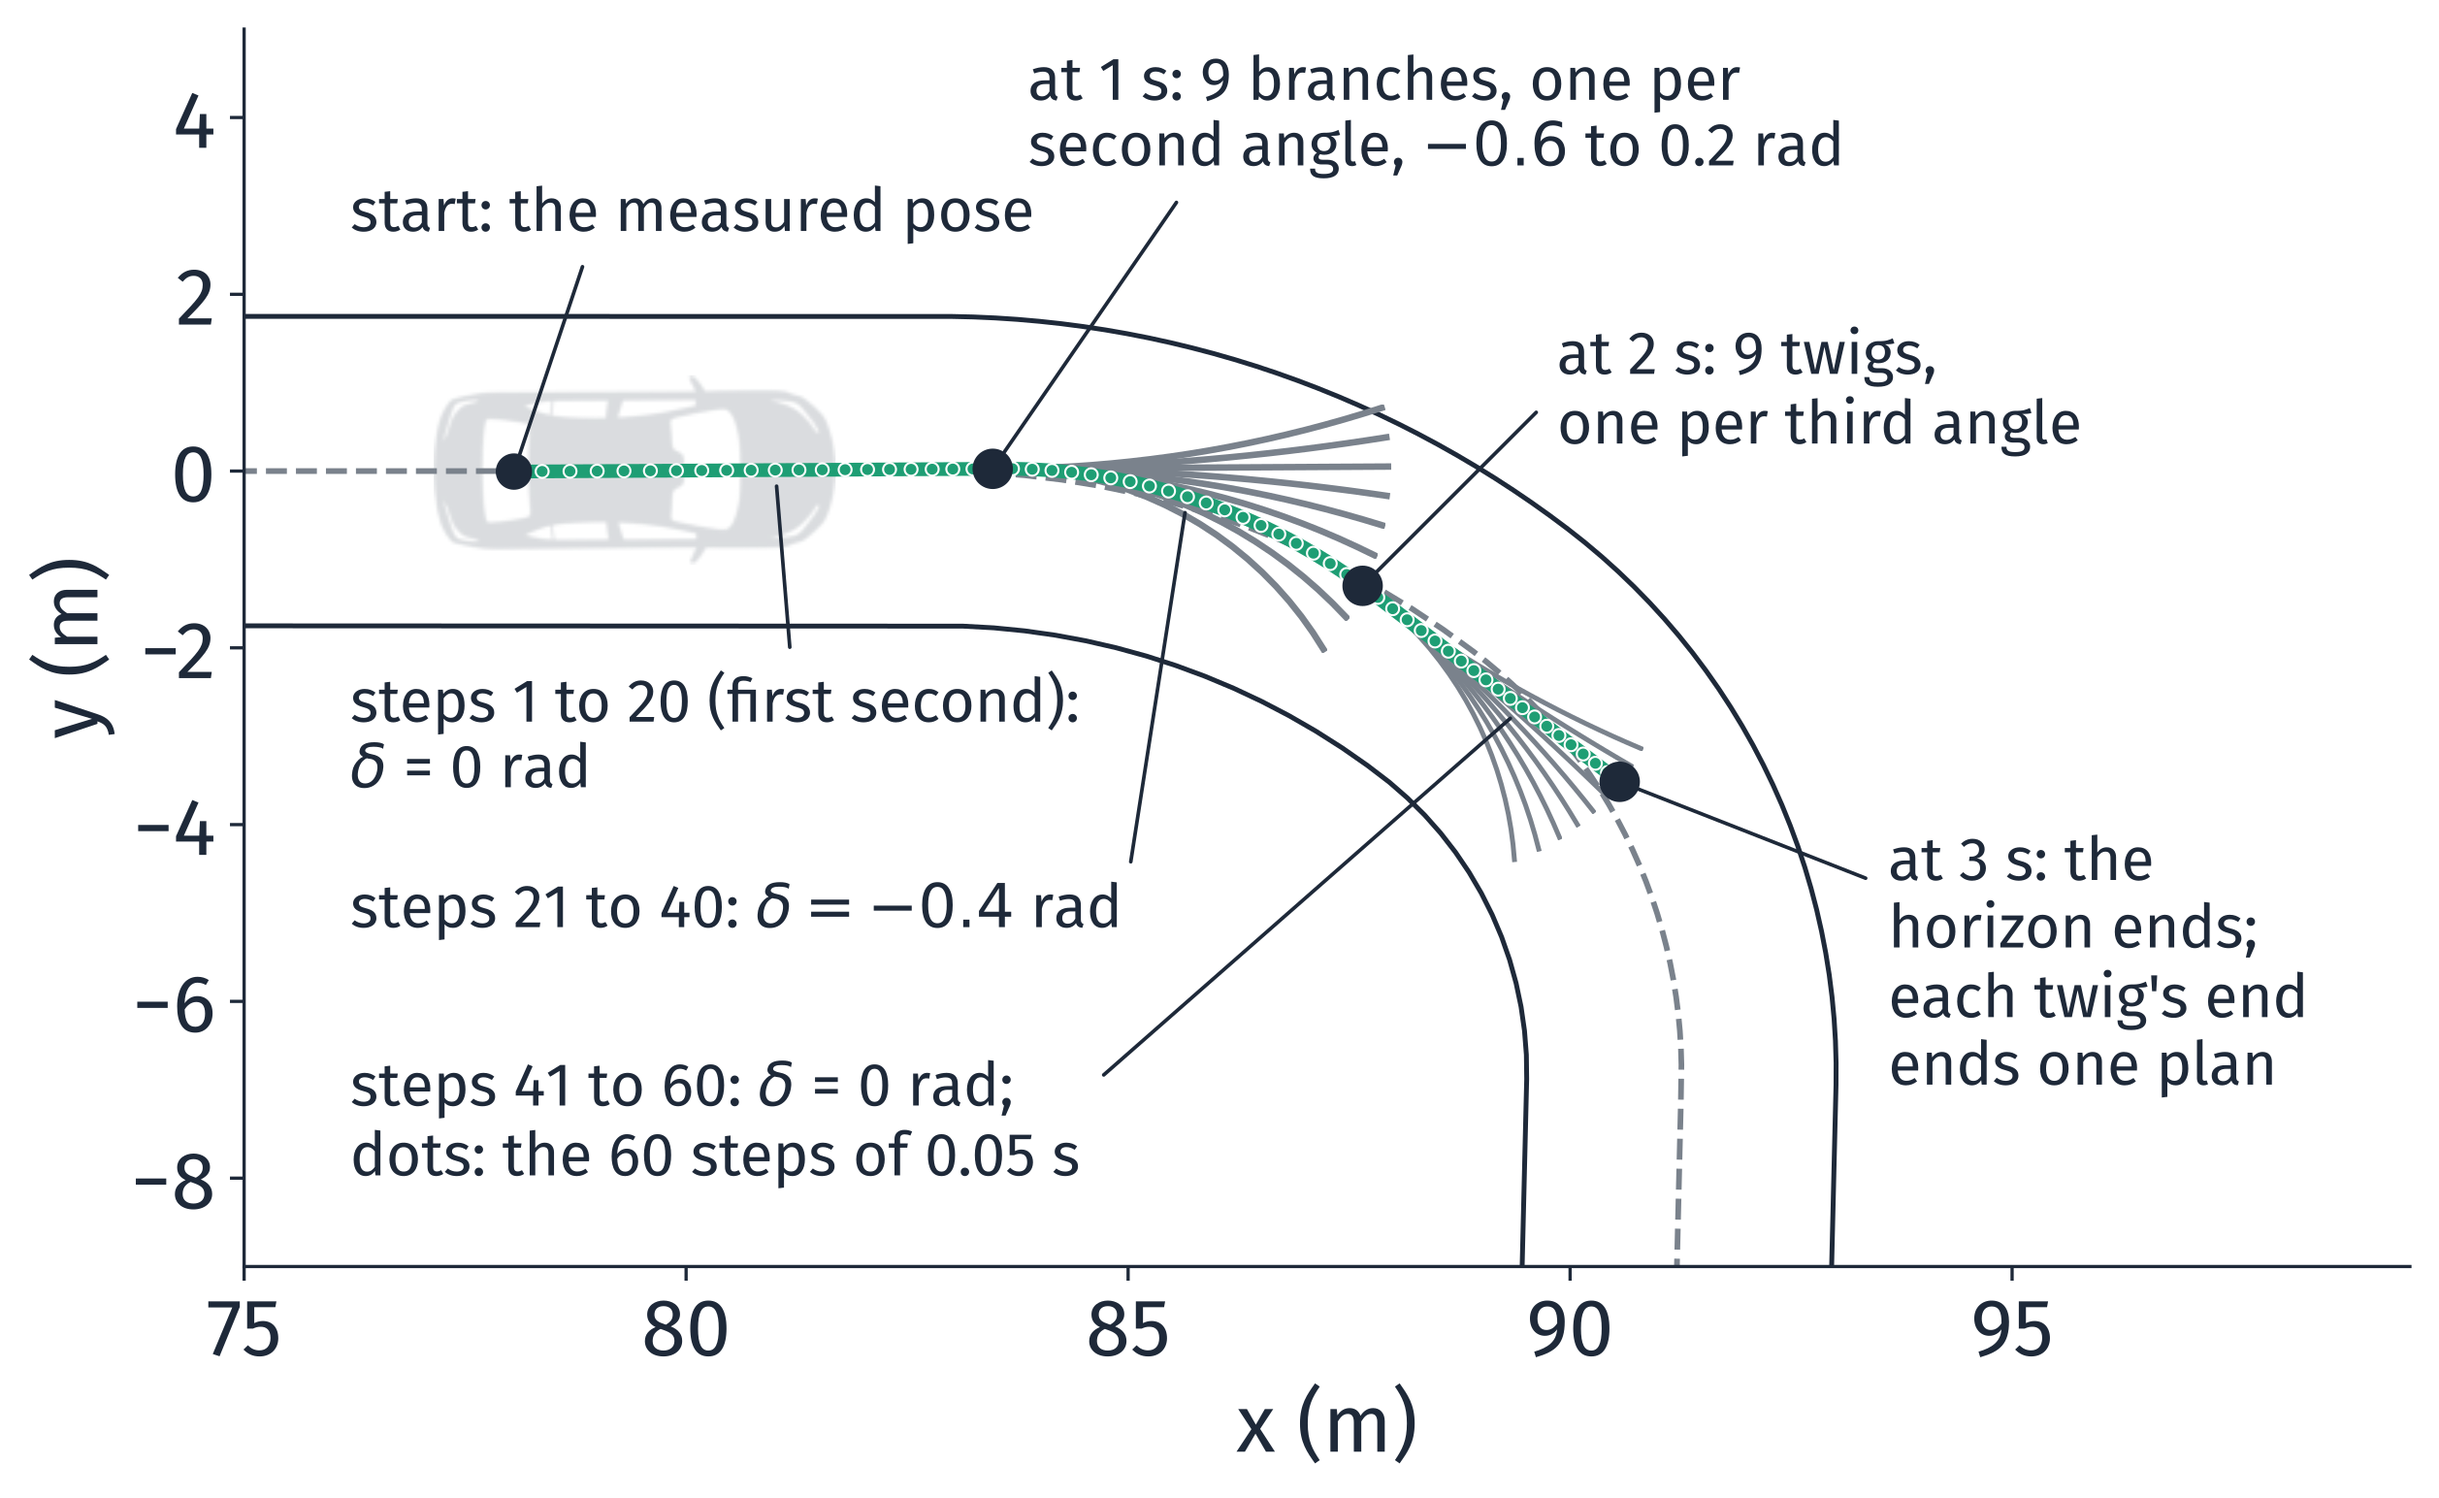
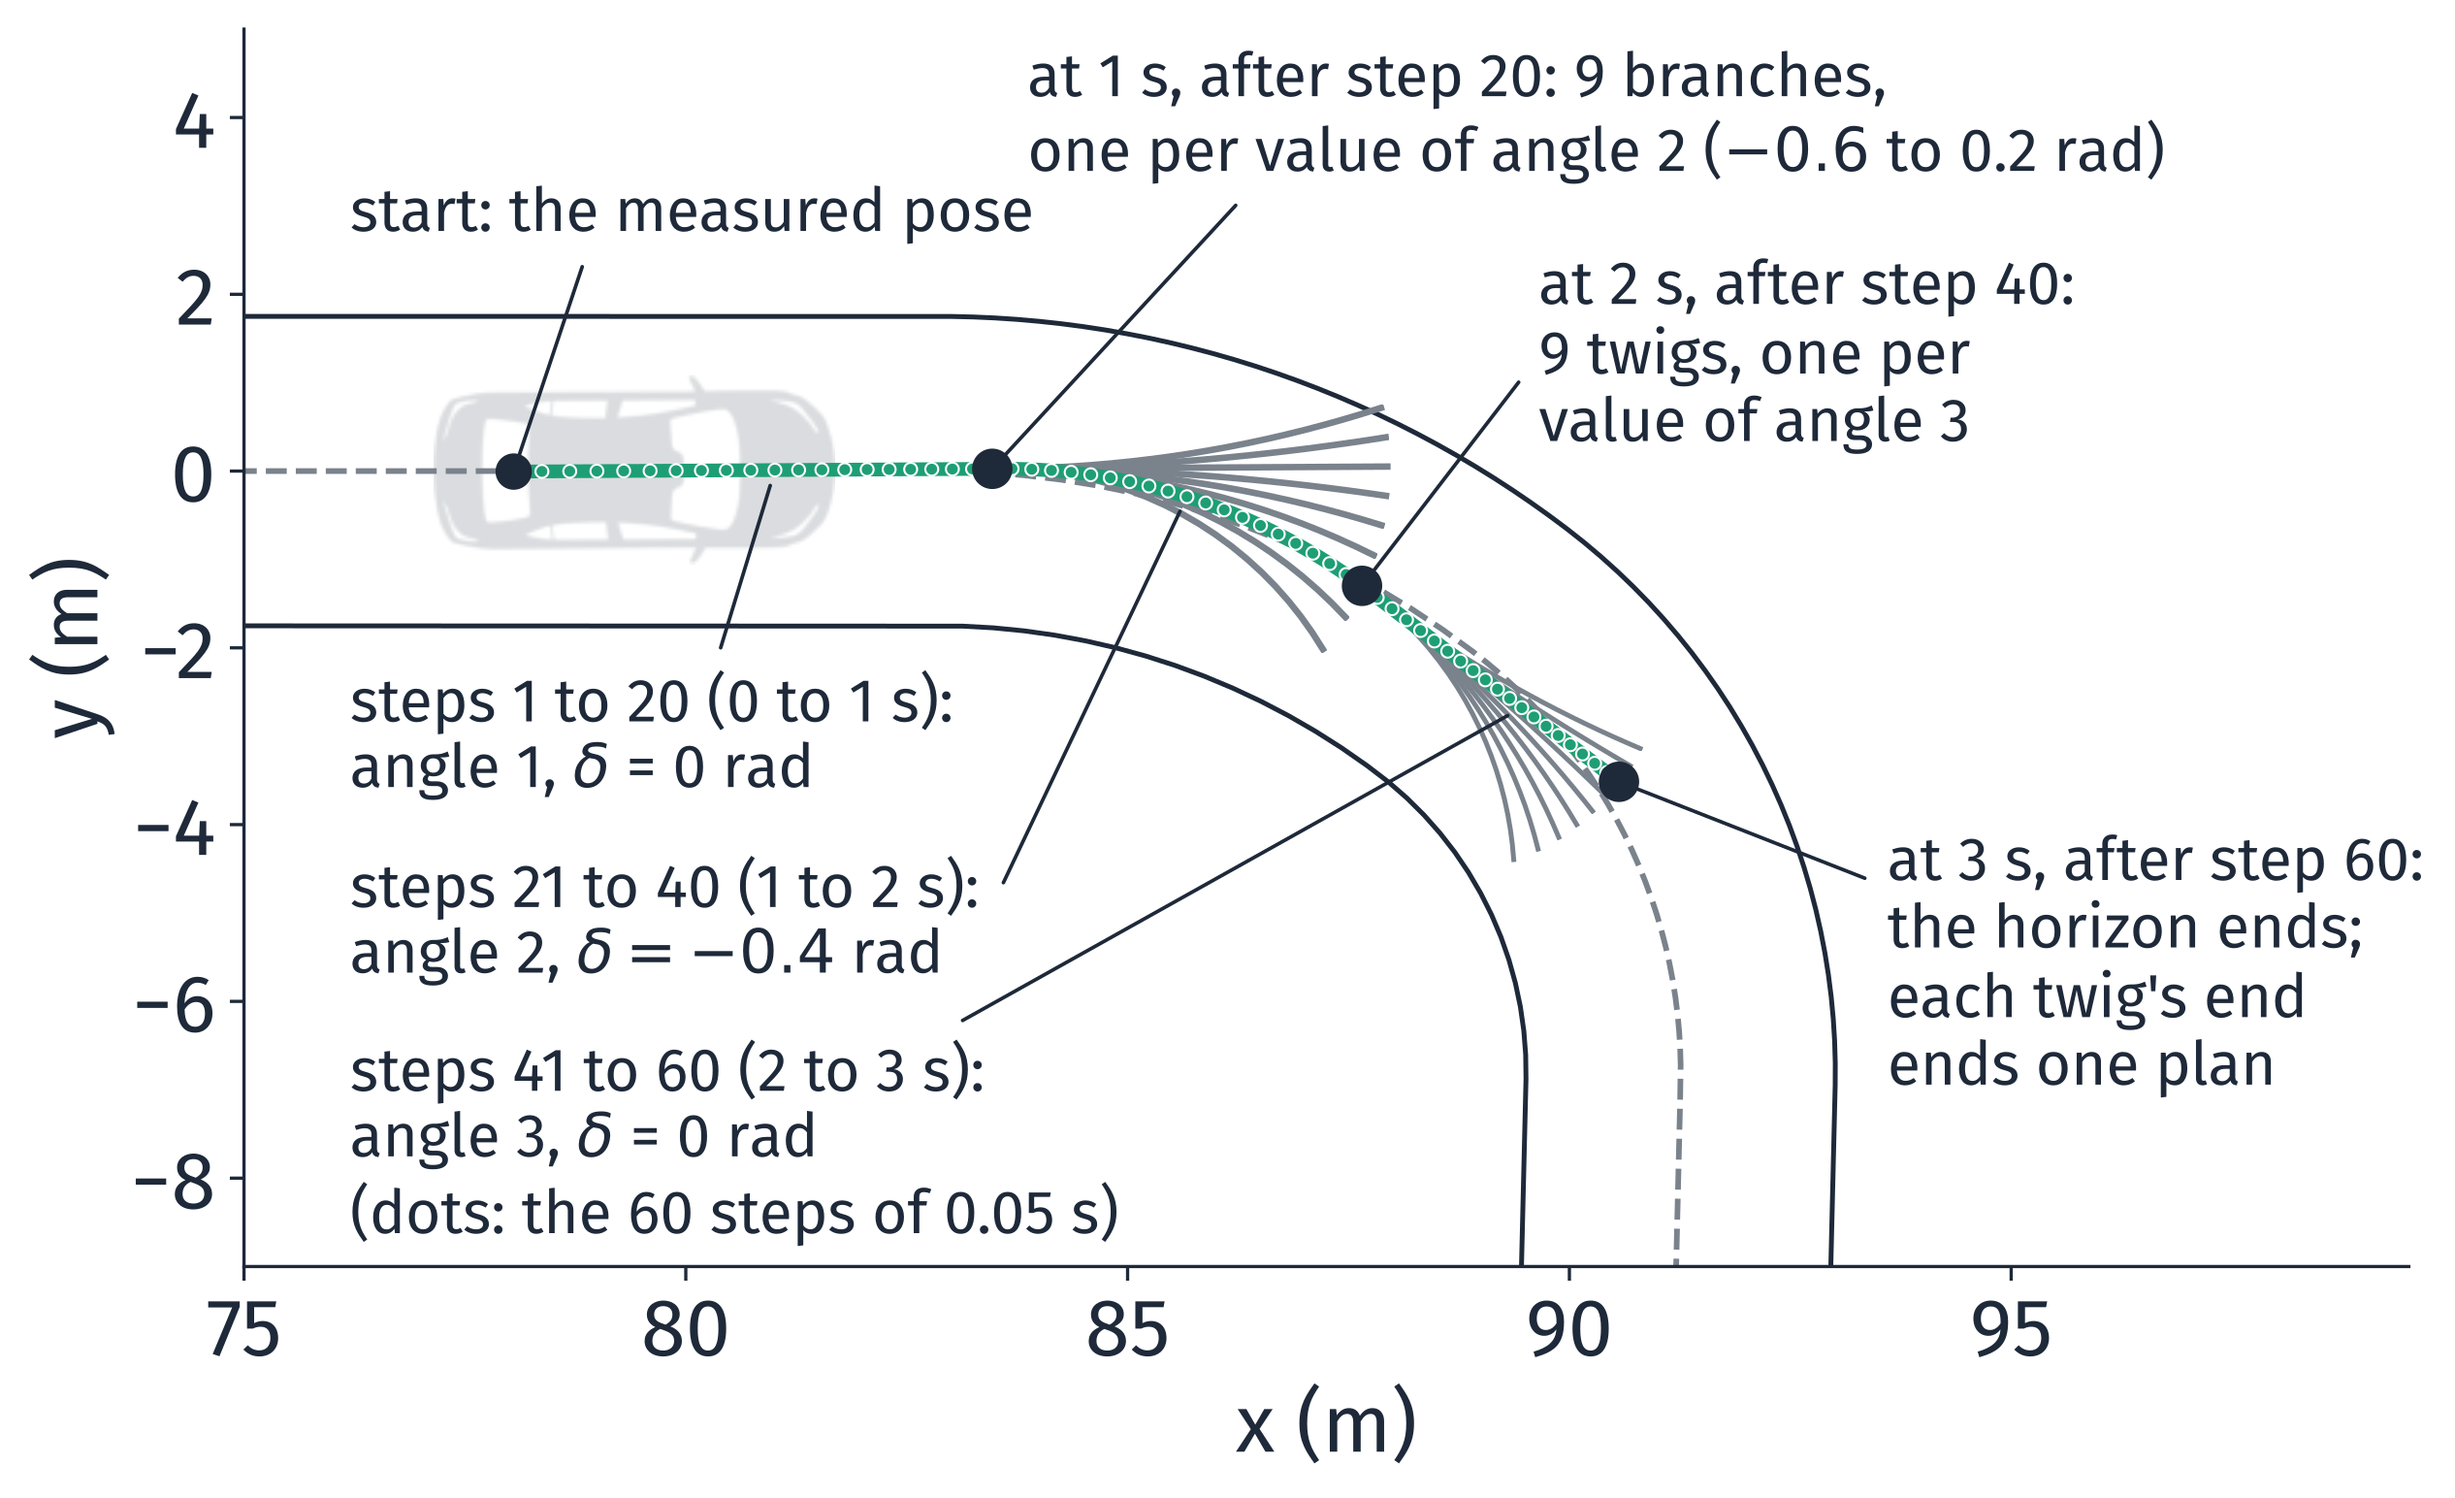
L10: branch figure names angles 1 to 3

diff --git a/docs/source/lectures/lecture10/l10_lecture.rst b/docs/source/lectures/lecture10/l10_lecture.rst
@@ -4574,19 +4574,21 @@ Step 1, Predict: Zoom In on One Branch of the Fan
 ^^^^^^^^^^^^^^^^^^^^^^^^^^^^^^^^^^^^^^^^^^^^^^^^^
 
 .. figure:: /_static/images/L10/mpc_branch.png
-   :alt: A close top view to scale of the start of the right curve, x from 75 to 99.5 meters and y from minus 9 to 5, with the lane edges and its dashed center. The AV is drawn faintly at x = 78 with a dark dot at its rear axle, labeled start: the measured pose. A thick green path with small dots runs straight to a large dark dot near x = 83.5, labeled at 1 s: 9 branches, one per second angle, -0.6 to 0.2 rad; the straight part is labeled steps 1 to 20 (first second): delta = 0 rad. From that dot nine gray curves fan out, from bending left to bending sharply right. The green path follows one of them, labeled steps 21 to 40: delta = -0.4 rad, to a second large dark dot near x = 87.7 and y = -1.3, labeled at 2 s: 9 twigs, one per third angle. From it nine shorter gray curves fan out, and the green path continues along one, labeled steps 41 to 60: delta = 0 rad; dots: the 60 steps of 0.05 s. It ends at a third large dark dot near x = 90.6 and y = -3.5, labeled at 3 s: the horizon ends; each twig's end ends one plan.
+   :alt: A close top view to scale of the start of the right curve, x from 75 to 99.5 meters and y from minus 9 to 5, with the lane edges and its dashed center. The AV is drawn faintly at x = 78 with a dark dot at its rear axle, labeled start: the measured pose. A thick green path with small dots runs straight to a large dark dot near x = 83.5; the straight part is labeled steps 1 to 20 (0 to 1 s): angle 1, delta = 0 rad, and the dot is labeled at 1 s, after step 20: 9 branches, one per value of angle 2 (-0.6 to 0.2 rad). From that dot nine gray curves fan out, from bending left to bending sharply right. The green path follows one of them, labeled steps 21 to 40 (1 to 2 s): angle 2, delta = -0.4 rad, to a second large dark dot near x = 87.7 and y = -1.3, labeled at 2 s, after step 40: 9 twigs, one per value of angle 3. From it nine shorter gray curves fan out, and the green path continues along one, labeled steps 41 to 60 (2 to 3 s): angle 3, delta = 0 rad (dots: the 60 steps of 0.05 s). It ends at a third large dark dot near x = 90.6 and y = -3.5, labeled at 3 s, after step 60: the horizon ends; each twig's end ends one plan.
    :width: 80%
    :align: center
 
    The plans that start with 0 rad, zoomed.
 
-The plans that start with 0 rad share their first second (steps 1 to 20),
-then split 9 ways at 1 s, one per second angle, and 9 ways again at 2 s, one
-per third angle: :math:`9 \times 9` = 81 plans. At 3 s the horizon ends:
-each twig's end is the end of one plan. Each of the 9 first angles
-grows such a tree: :math:`9 \times 81` = 729. One plan is one path from the
-start to the end of a twig (green). The small dots on the green path are the
-60 steps of 0.05 s the model predicts.
+A plan has three angles: angle 1 for 0 to 1 s, angle 2 for 1 to 2 s, angle 3
+for 2 to 3 s. The plans whose angle 1 is 0 rad share steps 1 to 20, then
+split 9 ways at 1 s, after step 20, one per value of angle 2, and 9 ways
+again at 2 s, after step 40, one per value of angle 3: :math:`9 \times 9` =
+81 plans. At 3 s, after step 60, the horizon ends: each twig's end is the end
+of one plan. Each of the 9 values of angle 1 grows such a tree:
+:math:`9 \times 81` = 729. One plan is one path from the start to a twig's
+end (green). The small dots on the green path are the 60 steps of 0.05 s the
+model predicts.
 
 
 .. _l10-lec-mpc-score:
